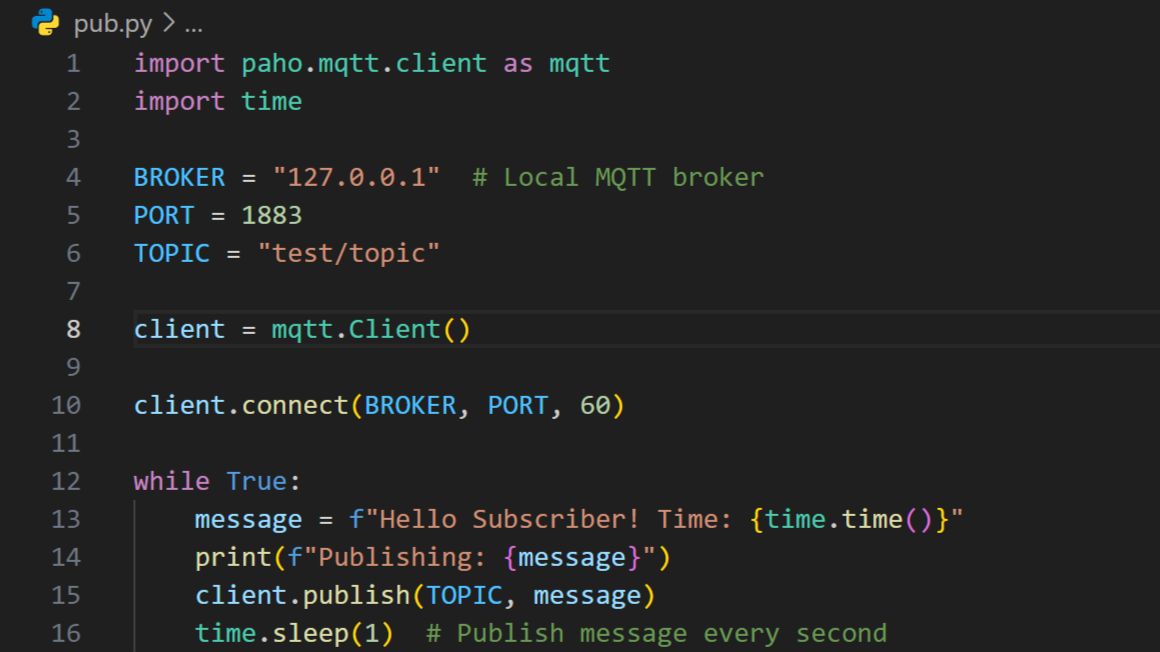
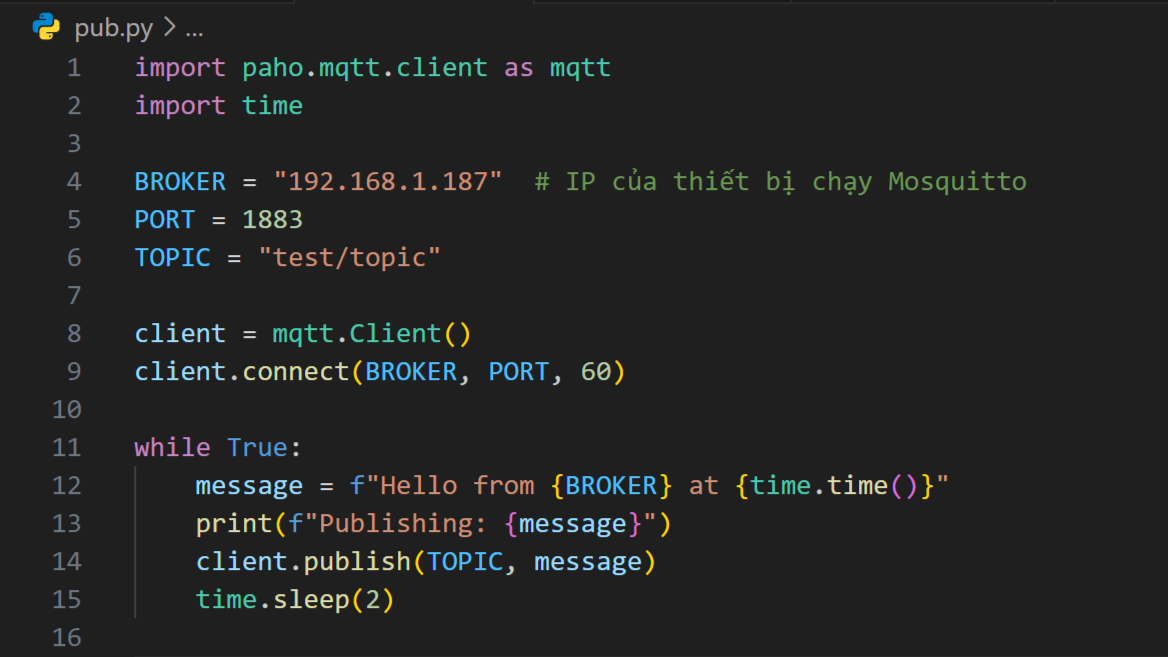
update README

diff --git a/sub.py b/sub.py
@@ -1,0 +1,18 @@
+import paho.mqtt.client as mqtt
+
+BROKER = "192.168.1.187"  # Địa chỉ IP của Mosquitto Broker
+PORT = 1883
+TOPIC = "test/topic"
+
+def on_message(client, userdata, message):
+    print(f"Received: {message.payload.decode()}")
+
+client = mqtt.Client()
+client.on_message = on_message
+
+client.connect(BROKER, PORT, 60)
+client.subscribe(TOPIC)
+
+print("Waiting for messages...")
+client.loop_forever()
+

diff --git a/README.md b/README.md
@@ -59,7 +59,7 @@ Nếu nó trả về `Restricted`, nghĩa là script PowerShell bị chặn.
 
 #### Step 1: Tải file `.exe`
 
-Vào [Mosquitto](https://mosquitto.org/download/)
+Tải tại [Mosquitto](https://mosquitto.org/download/)
 
 #### Step 2: Thêm `Mosquitto` vào System PATH
 
@@ -76,12 +76,89 @@ Vào [Mosquitto](https://mosquitto.org/download/)
 
 #### Step 1: Tìm địa chỉ IP của thiết bị chạy `Mosquitto` trong cmd
 
+**Trên `Windows`:**
+
     ipconfig
+
+**Trên `macOS/Linux`:**
+
+    ifconfig
 
 #### Step 2: Chạy `Mosquitto Broker`
 
     mosquitto -v
 
-#### Step 3: Tạo `pub.py` và đổi `IP Broker`
+#### Step 3: Tạo `pub.py` và đổi `IP Broker` trên thiết bị 1
 
-Ví dụ: ![1](./doc/pub.png)
+Ví dụ: ![pub.py](./doc/pub.png)
+
+#### Step 4: Tạo `sub.py` trên thiết bị 2
+
+Ví dụ: ![sub.py](./doc/sub.png)
+
+#### Step 5: Chạy chương trình
+
+**Trên thiết bị gửi (Publisher)**
+
+    python pub.py
+
+**Trên thiết bị nhận (Subscriber)**
+
+    python sub.py
+
+## 5. Lỗi `ConnectionRefusedError: [WinError 10061]`
+
+#### Step 1: Kiểm tra xem `Mosquitto` có đang chạy không
+
+    mosquitto -v
+
+Nếu `Mosquitto` đang chạy, bạn sẽ thấy log như sau:
+
+    mosquitto version ... running
+
+#### Step 2: Kiểm tra địa chỉ IP của máy chạy `Mosquitto`
+
+#### Step 3: Mở cổng `1883` trong Windows Firewall
+
+Mở `Win + X → Windows Terminal (Admin)`
+
+    netsh advfirewall firewall add rule name="MQTT" dir=in action=allow protocol=TCP localport=1883
+
+#### Step 4: Kiểm tra kết nối từ Client
+
+Trên máy client
+
+    telnet 192.168.1.187 1883
+
+`192.168.1.187` là IP của máy chạy Mosquitto
+Nếu hiện màn hình trống, port 1883 đã mở.
+🚨 Nếu báo lỗi "Could not open connection", Mosquitto chưa mở hoặc bị firewall chặn.
+
+#### Step 5: Sửa file cấu hình `Mosquitto` (nếu cần)
+
+**Trên `Windows`:**
+
+-   Mở `C:\Program Files\mosquitto\mosquitto.conf` bằng `Notepad (Run as administrator)`.
+-   Thêm dòng sau vào cuối file:
+
+        listener 1883
+        allow_anonymous true
+
+-   Lưu file và khởi động lại Mosquitto:
+
+        mosquitto -c "C:\Program Files\mosquitto\mosquitto.conf"
+
+**Trên `Linux`:**
+
+-   Sửa file
+
+        sudo nano /etc/mosquitto/mosquitto.conf
+
+-   Thêm dòng sau vào cuối file:
+
+        listener 1883
+        allow_anonymous true
+
+-   Lưu file và khởi động lại Mosquitto:
+
+        sudo systemctl restart mosquitto
